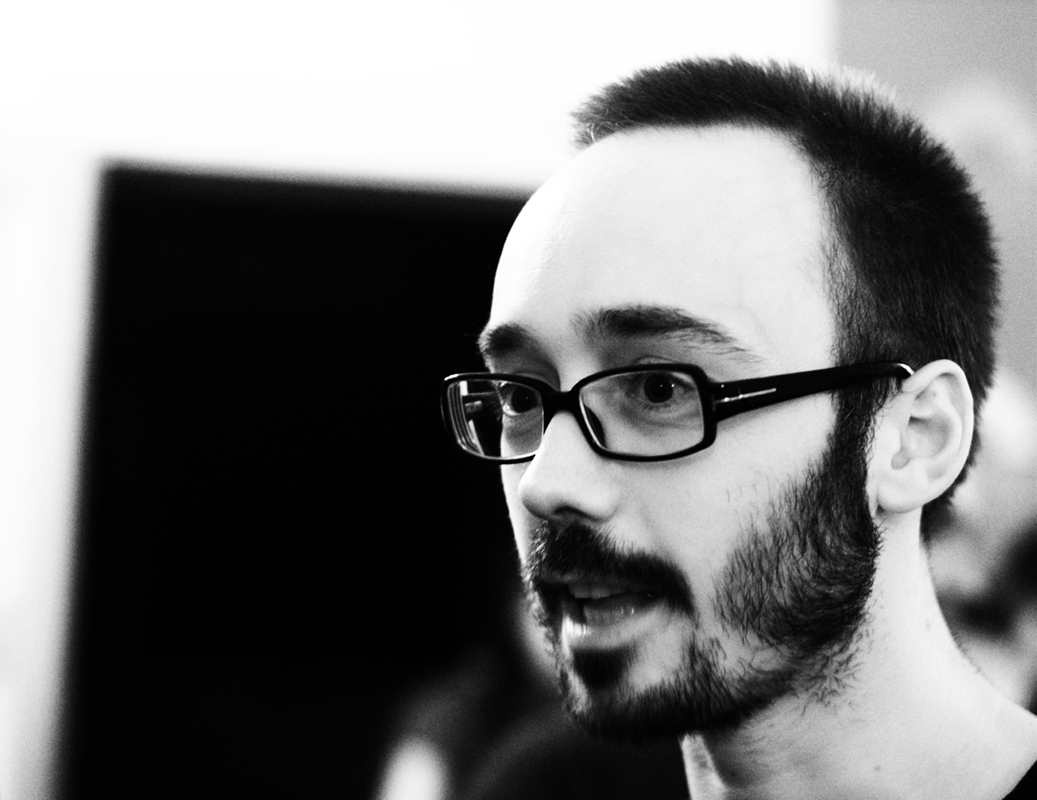
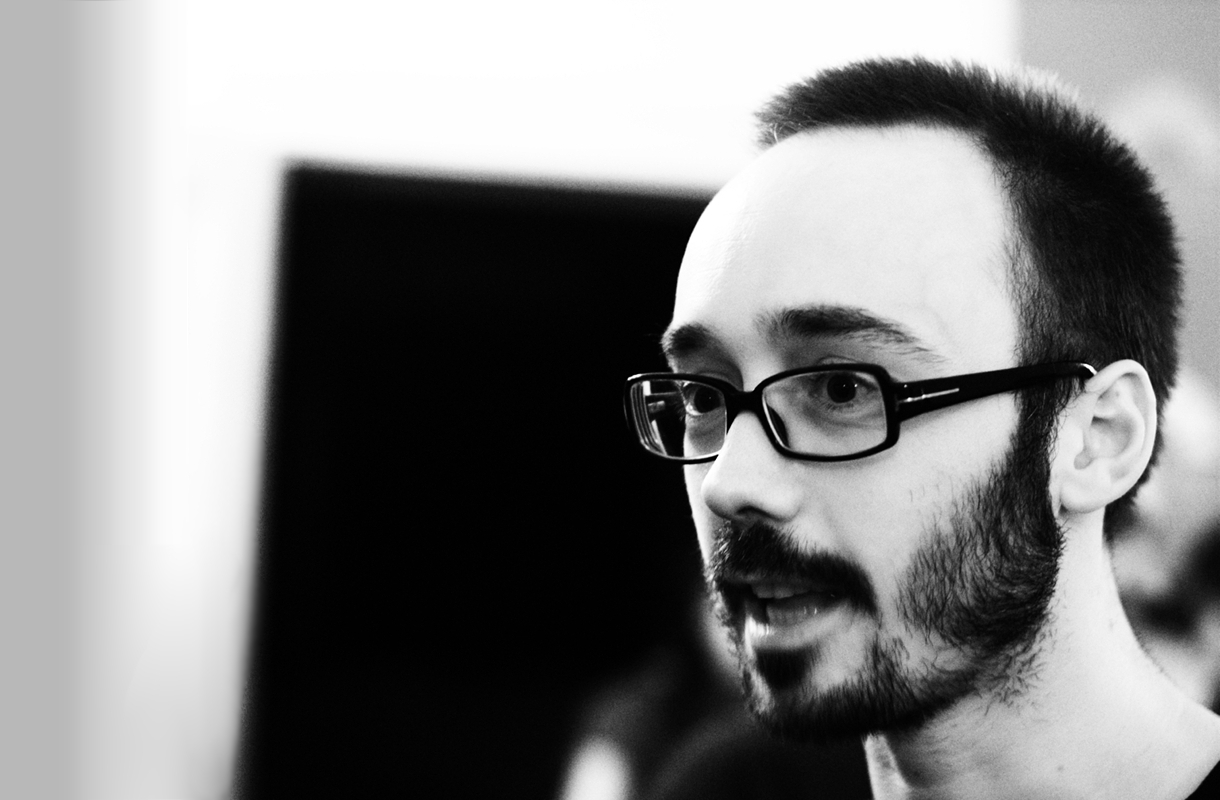
Updated image for Zacchiroli2 & compiled css with link to the author of the photo
svn path=/branches/test/; revision=32571

diff --git a/look/fsfe.less b/look/fsfe.less
@@ -205,7 +205,7 @@ a.the-fellowship {
         }
 
         #zacchiroli2 {
-            background: url('/graphics/zacchiroli.jpg')  top right  no-repeat #fcfcfc;
+            background: url('/graphics/zacchiroli.jpg')  top right  no-repeat #b8b8b8;
             background-size: cover;
             text-shadow: 0px 1px 8px rgb(0,0,0);
 

diff --git a/look/fsfe.min.css b/look/fsfe.min.css
@@ -11056,7 +11056,7 @@ a.the-fellowship {
   }
 }
 .frontpage #campaigns-boxes #zacchiroli2 {
-  background: url('/graphics/zacchiroli.jpg') top right no-repeat #fcfcfc;
+  background: url('/graphics/zacchiroli.jpg') top right no-repeat #b8b8b8;
   background-size: cover;
   text-shadow: 0px 1px 8px #000000;
 }
